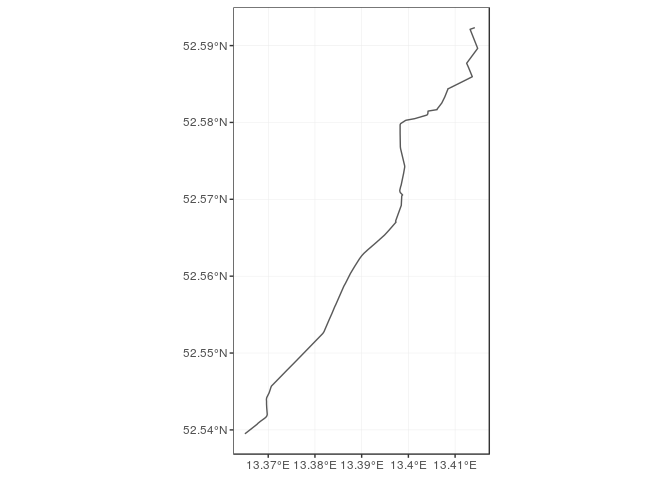
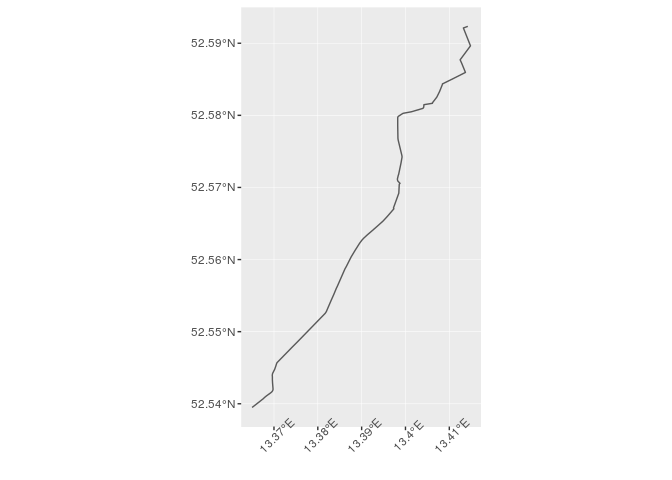
Update plots

diff --git a/README.md b/README.md
@@ -40,6 +40,15 @@ library(graphhopper)
 
 API_URL <- "http://localhost:8989"
 gh_set_api_url(API_URL)
+
+info <- gh_get_info()
+
+info$version
+#> [1] "2.0"
+info$data_date
+#> [1] "2020-11-10T21:42:03Z"
+gh_bbox(info)
+#> [1] 13.06979 52.33306 13.76408 52.67962
 ```
 
 ### Route
@@ -62,7 +71,7 @@ end_point <- c(52.539614, 13.364868)
 
 ggplot(data = route) +
   geom_sf() +
-  theme_bw()
+  theme(axis.text.x = element_text(angle = 45))
 ```
 
 ![](man/figures/README-route-example-1.png)
@@ -85,7 +94,7 @@ gh_time_distance(route2)
 
 ggplot(data = gh_as_sf(route2)) +
   geom_sf() +
-  theme_bw()
+  theme(axis.text.x = element_text(angle = 45))
 ```
 
 ![](man/figures/README-route-example-2.png)
@@ -102,15 +111,22 @@ gh_points(route2) %>%
 #> 5 13.41599 52.59032     4
 #> 6 13.41942 52.59145     5
 
-gh_instructions(route2)[, c("lon", "lat", "gh_id", "text", "distance")] %>%
+gh_instructions(route2)[, c("lon", "lat", "gh_id", "gh_end_id", "text", "distance")] %>%
   head()
-#>        lon      lat gh_id                                   text distance
-#> 1 13.41422 52.59234     0        Continue onto Buchholzer Straße   72.248
-#> 2 13.41321 52.59212     1       Turn left onto Buchholzer Straße  296.761
-#> 3 13.41483 52.58964     2 Turn sharp left onto Buchholzer Straße  373.025
-#> 4 13.41942 52.59145     5         Turn right onto Grumbkowstraße  678.120
-#> 5 13.42352 52.58588     8    Turn left onto Blankenburger Straße  556.120
-#> 6 13.43019 52.58851    15      Turn right onto Pasewalker Straße  619.849
+#>        lon      lat gh_id gh_end_id                                   text
+#> 1 13.41422 52.59234     0         1        Continue onto Buchholzer Straße
+#> 2 13.41321 52.59212     1         2       Turn left onto Buchholzer Straße
+#> 3 13.41483 52.58964     2         5 Turn sharp left onto Buchholzer Straße
+#> 4 13.41942 52.59145     5         8         Turn right onto Grumbkowstraße
+#> 5 13.42352 52.58588     8        15    Turn left onto Blankenburger Straße
+#> 6 13.43019 52.58851    15        18      Turn right onto Pasewalker Straße
+#>   distance
+#> 1   72.248
+#> 2  296.761
+#> 3  373.025
+#> 4  678.120
+#> 5  556.120
+#> 6  619.849
 ```
 
 ### Shortest path tree
@@ -124,7 +140,7 @@ points_sf <- gh_get_spt(start_point, time_limit = 180) %>%
 
 ggplot() +
   geom_sf(data = points_sf, aes(colour = time), size = 0.5) +
-  theme_bw()
+  theme(axis.text.x = element_text(angle = 45))
 ```
 
 ![](man/figures/README-spt-example-1.png)
